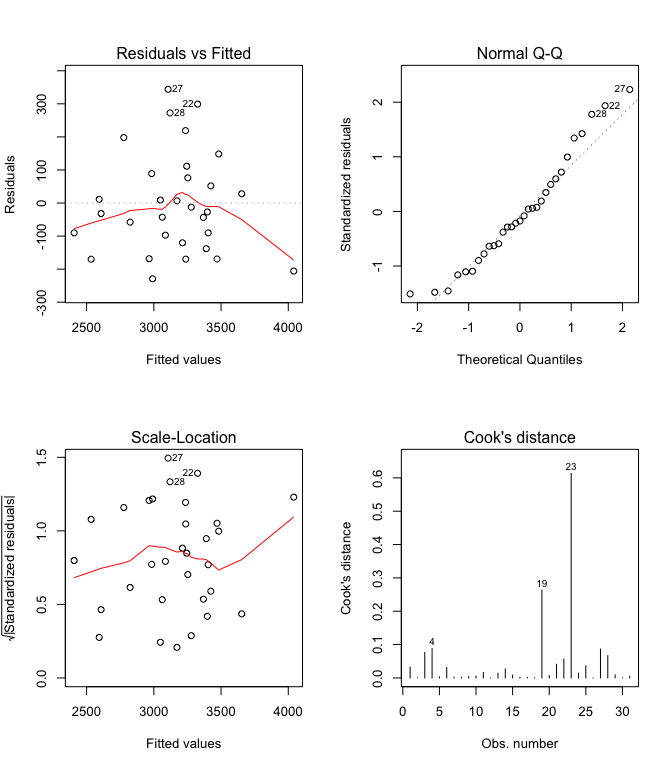
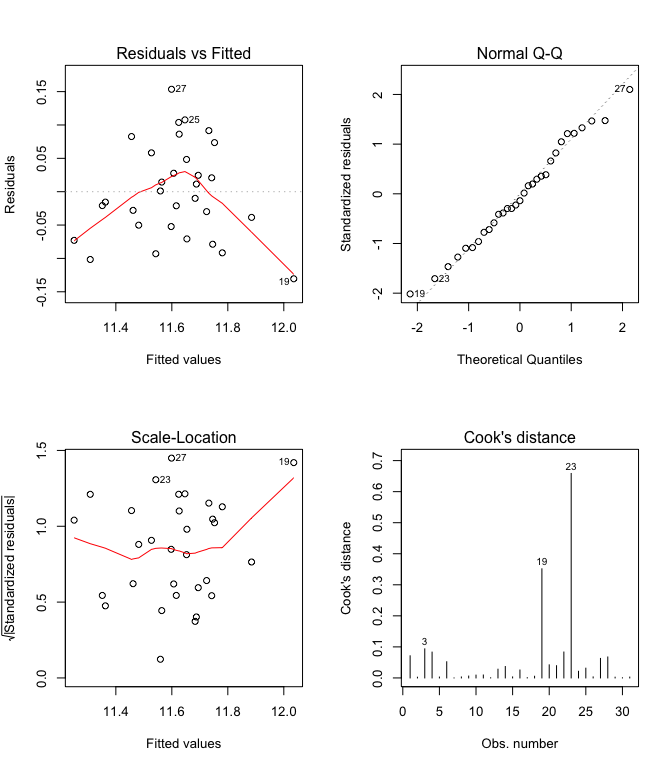
Revision at 5:40 4/6/2016

diff --git a/Report_1.md b/Report_1.md
@@ -1,9 +1,9 @@
-Info813 report I: Can we predict radiology visit using patient visting data?
-============================================================================
+Info813 report I: Can we predict radiology visits using patient visting data?
+=============================================================================
 
 Kai Li
 
-4/4/2016
+Last update: 4/6/2016
 
 Problem statement
 -----------------
@@ -21,11 +21,11 @@ Two broad groups of questions will be addressed in this report:
 Data description
 ----------------
 
-The original dataset includes 5 variables and 31 observations. The 4
-variables are identifier, radiology visits (rad vis), patient days (p
-days), emergency room visits (er vis), and clinic visits (cl vis).
-Except for the identifier being a nominal variable, all the other 4
-variables are ratio variables. A basic descriptive analysis was
+The original dataset includes 5 variables and 31 observations. The 5
+variables are **identifier**, **radiology visits (rad vis)**, **patient
+days (p days)**, **emergency room visits (er vis)**, **and clinic visits
+(cl vis)**. Except for the identifier being a nominal variable, all the
+other 4 variables are ratio variables. A basic descriptive analysis was
 conducted over these four variables as below:
 
     ##         vars  n    mean     sd median trimmed    mad  min  max range  skew
@@ -38,6 +38,14 @@ conducted over these four variables as below:
     ## p_days      0.34 117.87
     ## er_vis     -0.01  31.73
     ## cl_vis     -0.20  17.75
+
+Histograms of the dependent variable and log2 of the dependent variable
+were plotted below. Even though the distribution of log2 seems to be
+more normal than the original variable, the original variable of
+radiology visits will be used to do the correlation and regression
+tests, with the other one used to validate the results.
+
+![](Report_1_files/figure-markdown_strict/unnamed-chunk-1-1.png)<!-- -->
 
 Analytical method
 -----------------
@@ -62,7 +70,7 @@ To answer the first question, the correlation between variables, the
 three scatter plots between the dependent variable and three independent
 variables were plotted as below:
 
-![](Report_1_files/figure-markdown_strict/unnamed-chunk-1-1.png)<!-- -->
+![](Report_1_files/figure-markdown_strict/unnamed-chunk-2-1.png)<!-- -->
 
 Just by looking, emergency room visits is the variable that can best
 predict radiology visits, because the dots on the second scatter plot
@@ -108,6 +116,47 @@ value, leading to the conclusion that the correlation between radiology
 visits and emergency room visits is the strongest among the three
 independent variables.
 
+As a validation of the results, the scatter plots using log2 of the
+radiology visits and their R-squared values and p-values are listed
+below:
+
+<table style="width:60%;">
+<colgroup>
+<col width="30%" />
+<col width="16%" />
+<col width="12%" />
+</colgroup>
+<thead>
+<tr class="header">
+<th align="center">Variable</th>
+<th align="center">R-squared</th>
+<th align="center">p-value</th>
+</tr>
+</thead>
+<tbody>
+<tr class="odd">
+<td align="center">Patient days</td>
+<td align="center">0.4527</td>
+<td align="center">3.367e-05</td>
+</tr>
+<tr class="even">
+<td align="center">Emergency room visits</td>
+<td align="center">0.7563</td>
+<td align="center">2.152e-10</td>
+</tr>
+<tr class="odd">
+<td align="center">Clinic visits</td>
+<td align="center">0.425</td>
+<td align="center">7.092e-05</td>
+</tr>
+</tbody>
+</table>
+
+![](Report_1_files/figure-markdown_strict/unnamed-chunk-4-1.png)<!-- -->
+
+It is obvious that using the original radiology visits variable and log2
+of the same variable does not create much difference.
+
 #### Regression
 
 In order to create a regression model between radiology visit and three
@@ -120,7 +169,7 @@ report.
 2.  independence of the errors
 3.  constant variance of the errors
 4.  normality of the errors
-5.  multi-collinearity
+5.  not multi-collinearity
 
 The following model was established between the dependent variable,
 radiology visits, and the three independent variables, patient days,
@@ -131,18 +180,17 @@ emergency room visits, and clinical visits.
 However, in order to determine if this model met all the assumptions of
 regression model, diagnostic plots were drawn below:
 
-![](Report_1_files/figure-markdown_strict/unnamed-chunk-4-1.png)<!-- -->
+![](Report_1_files/figure-markdown_strict/unnamed-chunk-6-1.png)<!-- -->
 
 According to the first plot, *residuals vs. fitted values*, the
-**linearity assumption** is largely met by this model, because all the
-standard residuals are within the range of +/- 2 standard errors.
-Moreover, the **homoscedasticity assumption** may not be well met as
-well, because the values are shown some patterns in the vertical
-directions, making them not so equally distributed along the y = 0 line.
-The third plot, *scale-location plot* can be used to test the same
-assumption, even though the results are not clear. However, based on the
-results of Breusch-Pagan test, the null hypothesis of homoscedasticity
-cannot be rejected despite of the visual evidences:
+**linearity assumption** is largely not met by this model, because the
+values are not so equally distributed across the 0 line. Moreover, the
+**homoscedasticity assumption** may not be well met as well, because the
+trend line is not very parallel to the x-axis as well. The third plot,
+*scale-location plot* can be used to test the same assumption, even
+though the results are not clear. However, based on the results of
+Breusch-Pagan test, the null hypothesis of homoscedasticity cannot be
+rejected despite of the visual evidences:
 
     ## 
     ## Attaching package: 'car'
@@ -161,9 +209,9 @@ residuals and the 45-degree line.
 
 *Cook's distance plot* can be used to identify **influential outliers**.
 In our case, value 23 not only has a relatively big value (close to 1),
-but also stands out in some other plots. As a result, it is an outlier
-in our dataset. However, since we cannot double check the data
-collection procedures, nothing can be done to fix it.
+but also stands out in some other plots. As a result, it is an
+influential outlier in our dataset. However, since we cannot double
+check the data collection procedures, nothing can be done to fix it.
 
 The **independence assumption** was examined by Durbin-Watson test as
 below. Because the p-value is higher than 0.05, at 95% of confidence
@@ -189,13 +237,13 @@ rejected.
 Last but not least, **multi-collinearity** was tested using *variance
 inflation factors* as below. The results for any of the three
 independent variables are under 4, which is the rule of thumb, meaning
-that the multi-collinearity assumption is met.
+that the none-multi-collinearity assumption is met.
 
     ##   p_days   er_vis   cl_vis 
     ## 1.389103 1.762564 1.616556
 
-Despite of the issues in normality assumption, the summary of our
-original model is presented below:
+Despite of the possible issue in normality assumption, the summary of
+our original model is presented below:
 
     ## 
     ## Call:
@@ -232,7 +280,7 @@ To validate the results of this model, a new model was proposed using
 the same variables, but radiology visits was transformed by log2. Below
 are the diagnostic plots of this new model and its summary.
 
-![](Report_1_files/figure-markdown_strict/unnamed-chunk-9-1.png)<!-- -->
+![](Report_1_files/figure-markdown_strict/unnamed-chunk-11-1.png)<!-- -->
 
     ## 
     ## Call:
@@ -269,7 +317,7 @@ were created:
 Below are its diagnostic plots, which show similar results as our
 initial model.
 
-![](Report_1_files/figure-markdown_strict/unnamed-chunk-11-1.png)<!-- -->
+![](Report_1_files/figure-markdown_strict/unnamed-chunk-13-1.png)<!-- -->
 
 And below is the summary of this new model.
 
